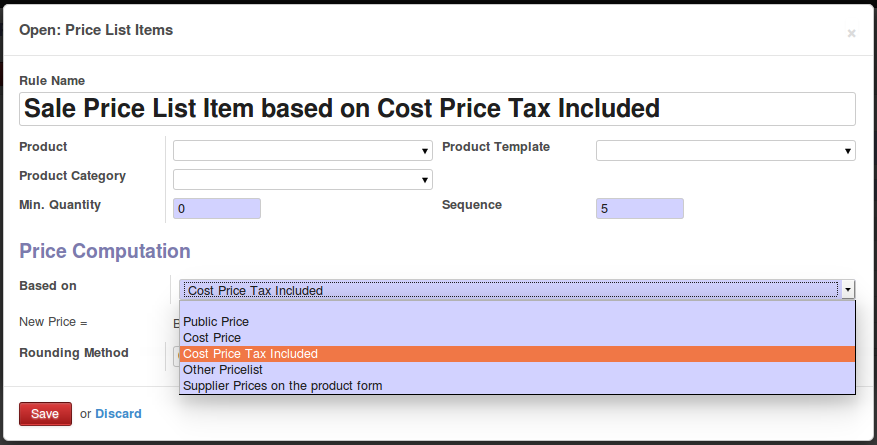
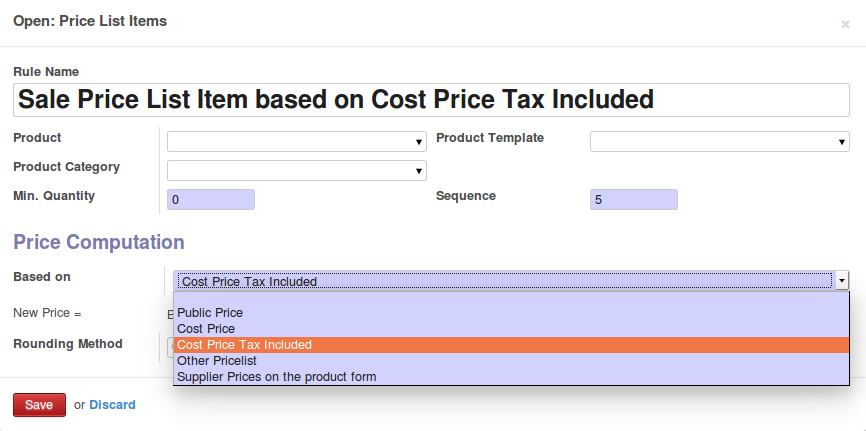
[IMP] description and images;

diff --git a/product_variant_cost_price/product_standard_price_tax_included/README.rst b/product_variant_cost_price/product_standard_price_tax_included/README.rst
@@ -23,11 +23,15 @@ This module create a new 'product.price.type' item, named
 Usage
 =====
 
-User can not set Price List based on this field.
-.. image:: ./static/description/pricelist.png
+User can now set Price List based on this field:
 
-The new field is displayed on the product template form.
-.. image:: ./static/description/product_template.png
+.. image:: /product_standard_price_tax_included/static/description/pricelist.png
+   :width: 100%
+
+The new field is displayed on the product template form:
+
+.. image:: /product_standard_price_tax_included/static/description/product_template.png
+   :width: 100%
 
 .. image:: https://odoo-community.org/website/image/ir.attachment/5784_f2813bd/datas
    :alt: Try me on Runbot
